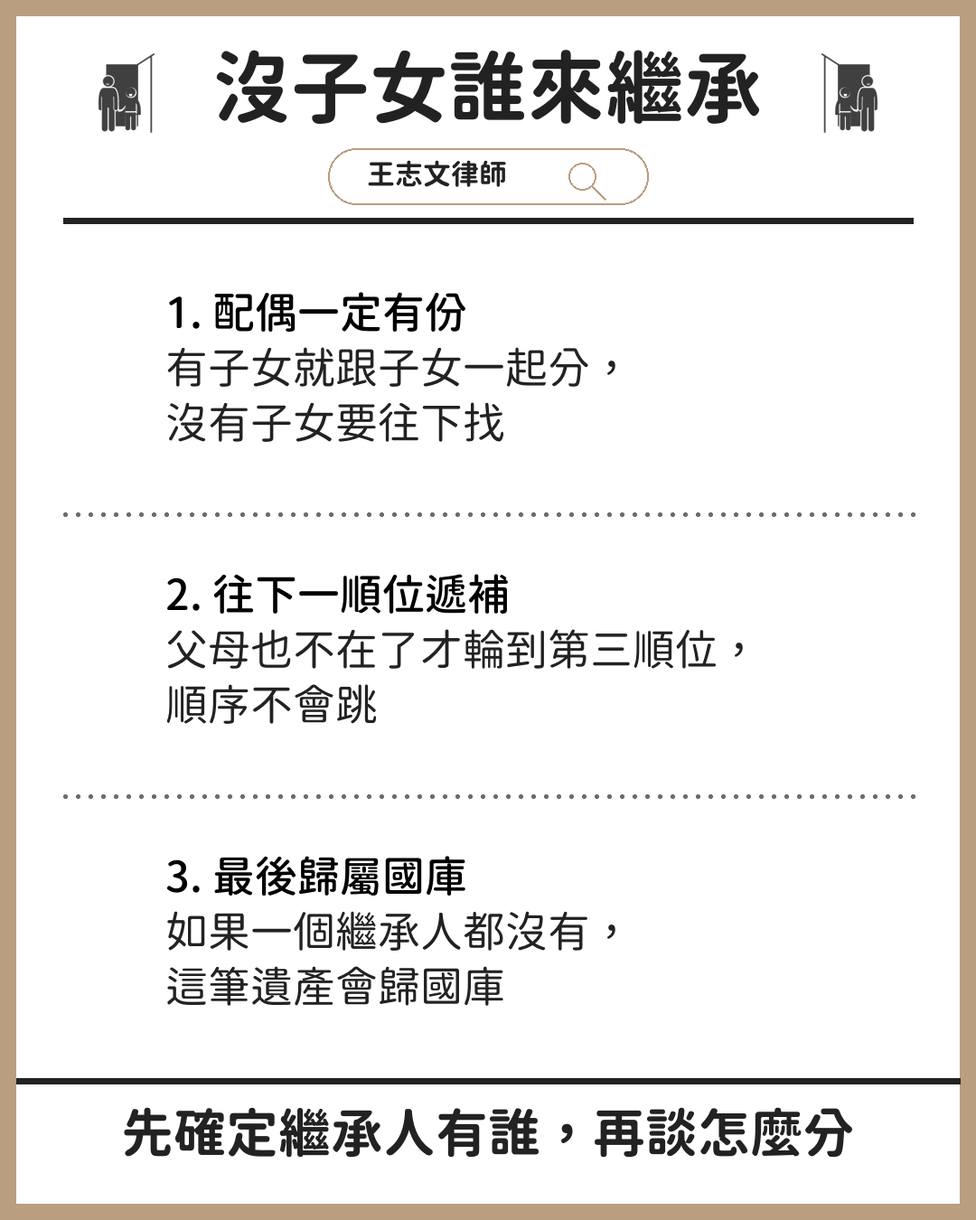
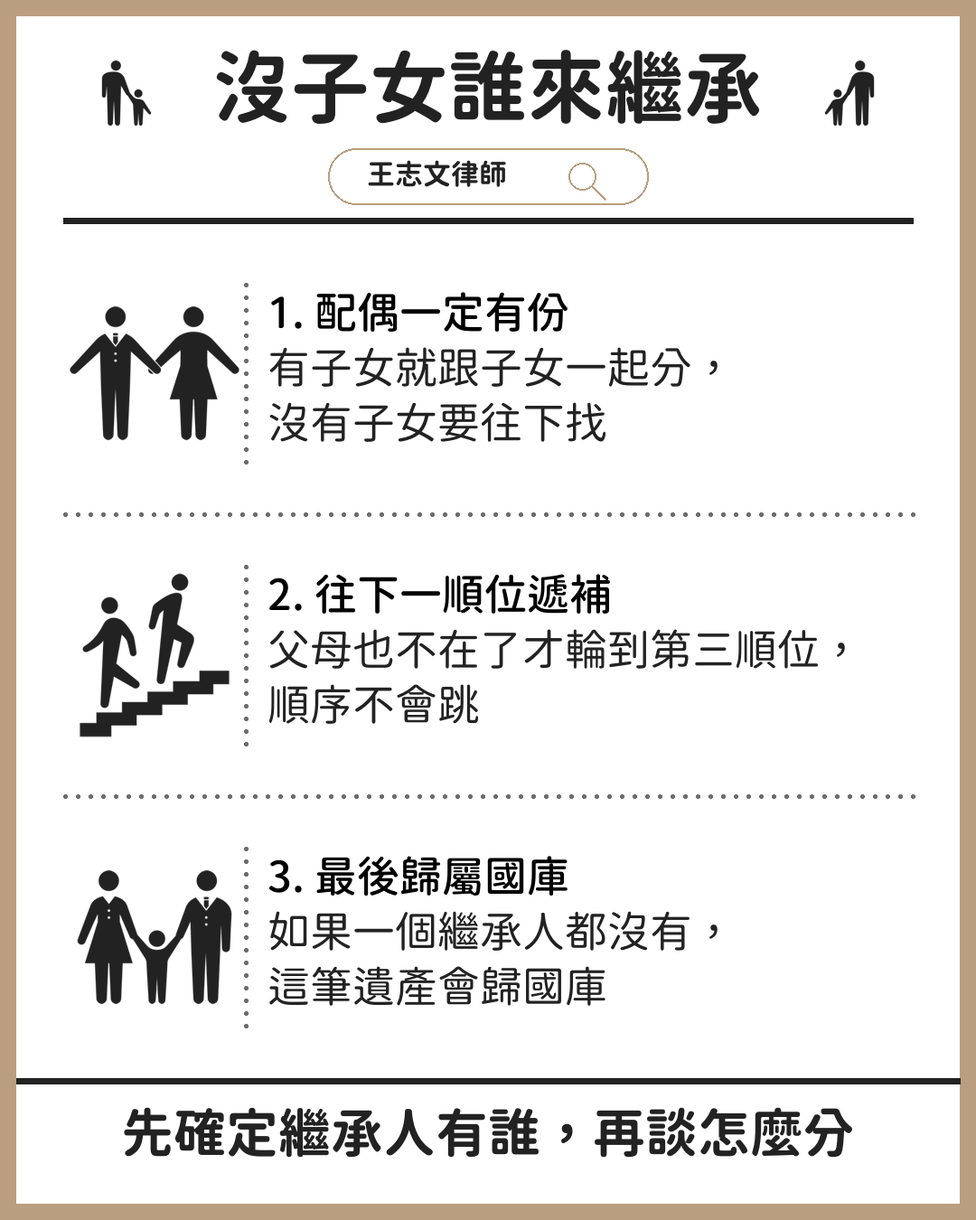
seo: 社群素材 2026-W36（6 則）

diff --git a/seo/2026-W36.html b/seo/2026-W36.html
@@ -40,96 +40,108 @@
 
   <article class="card">
     <div class="meta"><span class="num">1 / 6</span>
-      <span class="src">起訴書怎麼查？地檢署起訴書查詢只要2步驟！－王志文律</span>
-      <span class="len">149 字</span></div>
-    <img class="cardimg" src="img/%E8%B5%B7%E8%A8%B4%E6%9B%B8%E6%80%8E%E9%BA%BC%E6%9F%A5_%E5%9C%B0%E6%AA%A2%E7%BD%B2%E8%B5%B7%E8%A8%B4%E6%9B%B8%E6%9F%A5%E8%A9%A2%E5%8F%AA%E8%A6%812%E6%AD%A5%E9%A9%9F_%E7%8E%8B%E5%BF%97%E6%96%87%E5%BE%8B%E5%B8%AB_1.png" alt="圖卡" loading="lazy"><p class="imghint">長按上圖存到相簿，發文時一起附上（Threads 的預填連結不能帶圖）</p>
-    <div class="body">很多人在網路上搜「地檢署判決書查詢」，找了半天什麼都找不到。
+      <span class="src">輔助宣告、監護宣告聲請流程，圖解1次看懂！ - 王志</span>
+      <span class="len">351 字</span></div>
+    <img class="cardimg" src="img/%E8%BC%94%E5%8A%A9%E5%AE%A3%E5%91%8A_%E7%9B%A3%E8%AD%B7%E5%AE%A3%E5%91%8A%E8%81%B2%E8%AB%8B%E6%B5%81%E7%A8%8B_%E5%9C%96%E8%A7%A31%E6%AC%A1%E7%9C%8B%E6%87%82_%E7%8E%8B%E5%BF%97%E6%96%87%E5%BE%8B%E5%B8%AB_%E6%B0%91_1.png" alt="圖卡" loading="lazy"><p class="imghint">長按上圖存到相簿，發文時一起附上（Threads 的預填連結不能帶圖）</p>
+    <div class="body">同樣是家裡長輩失智，有人被裁定輔助宣告，有人被裁定監護宣告。差別不在家屬希望管到多緊，在當事人的心智受損到什麼程度。
 
-那是因為地檢署不會作判決。檢察官偵查完，作出來的是起訴、不起訴或緩起訴處分書；要等檢察官起訴、案件移到法院，才由法院判決認定被告有沒有罪。起訴是指控，判決是認定，兩件事查的地方不一樣。
+程度比較輕微的，法院會裁定輔助宣告，這個人在法律上是限制行為能力人，類似7至18歲，借錢、打官司這些事，要經過輔助人同意才有效。程度嚴重到沒辦法理解別人的意思，也沒辦法表達自己意見的，才是監護宣告，法律上類似未滿7歲，自己簽的契約全部無效。
 
-你收到傳票的那一刻，最想先弄清楚的是哪一件事？</div>
+常見的情況是長輩失智之後，家人發現他開始跟別人借錢，或是要把房地產過戶出去，才想到要聲請。但要走哪一種，是法院依鑑定結果認定的，不是家屬挑一個自己比較安心的。這類案子要經過醫生鑑定，當事人也可能提起抗告，每一件時間都不一樣，通常幾個月內會結束。
+
+真正難的往往不是選哪一種，是承認那個從小把你養大的人，現在連自己借了多少錢，都講不清楚了。</div>
     <div class="actions">
-      <a class="btn primary" href="https://www.threads.net/intent/post?text=%E5%BE%88%E5%A4%9A%E4%BA%BA%E5%9C%A8%E7%B6%B2%E8%B7%AF%E4%B8%8A%E6%90%9C%E3%80%8C%E5%9C%B0%E6%AA%A2%E7%BD%B2%E5%88%A4%E6%B1%BA%E6%9B%B8%E6%9F%A5%E8%A9%A2%E3%80%8D%EF%BC%8C%E6%89%BE%E4%BA%86%E5%8D%8A%E5%A4%A9%E4%BB%80%E9%BA%BC%E9%83%BD%E6%89%BE%E4%B8%8D%E5%88%B0%E3%80%82%0A%0A%E9%82%A3%E6%98%AF%E5%9B%A0%E7%82%BA%E5%9C%B0%E6%AA%A2%E7%BD%B2%E4%B8%8D%E6%9C%83%E4%BD%9C%E5%88%A4%E6%B1%BA%E3%80%82%E6%AA%A2%E5%AF%9F%E5%AE%98%E5%81%B5%E6%9F%A5%E5%AE%8C%EF%BC%8C%E4%BD%9C%E5%87%BA%E4%BE%86%E7%9A%84%E6%98%AF%E8%B5%B7%E8%A8%B4%E3%80%81%E4%B8%8D%E8%B5%B7%E8%A8%B4%E6%88%96%E7%B7%A9%E8%B5%B7%E8%A8%B4%E8%99%95%E5%88%86%E6%9B%B8%EF%BC%9B%E8%A6%81%E7%AD%89%E6%AA%A2%E5%AF%9F%E5%AE%98%E8%B5%B7%E8%A8%B4%E3%80%81%E6%A1%88%E4%BB%B6%E7%A7%BB%E5%88%B0%E6%B3%95%E9%99%A2%EF%BC%8C%E6%89%8D%E7%94%B1%E6%B3%95%E9%99%A2%E5%88%A4%E6%B1%BA%E8%AA%8D%E5%AE%9A%E8%A2%AB%E5%91%8A%E6%9C%89%E6%B2%92%E6%9C%89%E7%BD%AA%E3%80%82%E8%B5%B7%E8%A8%B4%E6%98%AF%E6%8C%87%E6%8E%A7%EF%BC%8C%E5%88%A4%E6%B1%BA%E6%98%AF%E8%AA%8D%E5%AE%9A%EF%BC%8C%E5%85%A9%E4%BB%B6%E4%BA%8B%E6%9F%A5%E7%9A%84%E5%9C%B0%E6%96%B9%E4%B8%8D%E4%B8%80%E6%A8%A3%E3%80%82%0A%0A%E4%BD%A0%E6%94%B6%E5%88%B0%E5%82%B3%E7%A5%A8%E7%9A%84%E9%82%A3%E4%B8%80%E5%88%BB%EF%BC%8C%E6%9C%80%E6%83%B3%E5%85%88%E5%BC%84%E6%B8%85%E6%A5%9A%E7%9A%84%E6%98%AF%E5%93%AA%E4%B8%80%E4%BB%B6%E4%BA%8B%EF%BC%9F" target="_blank" rel="noopener">發到 Threads</a>
+      <a class="btn primary" href="https://www.threads.net/intent/post?text=%E5%90%8C%E6%A8%A3%E6%98%AF%E5%AE%B6%E8%A3%A1%E9%95%B7%E8%BC%A9%E5%A4%B1%E6%99%BA%EF%BC%8C%E6%9C%89%E4%BA%BA%E8%A2%AB%E8%A3%81%E5%AE%9A%E8%BC%94%E5%8A%A9%E5%AE%A3%E5%91%8A%EF%BC%8C%E6%9C%89%E4%BA%BA%E8%A2%AB%E8%A3%81%E5%AE%9A%E7%9B%A3%E8%AD%B7%E5%AE%A3%E5%91%8A%E3%80%82%E5%B7%AE%E5%88%A5%E4%B8%8D%E5%9C%A8%E5%AE%B6%E5%B1%AC%E5%B8%8C%E6%9C%9B%E7%AE%A1%E5%88%B0%E5%A4%9A%E7%B7%8A%EF%BC%8C%E5%9C%A8%E7%95%B6%E4%BA%8B%E4%BA%BA%E7%9A%84%E5%BF%83%E6%99%BA%E5%8F%97%E6%90%8D%E5%88%B0%E4%BB%80%E9%BA%BC%E7%A8%8B%E5%BA%A6%E3%80%82%0A%0A%E7%A8%8B%E5%BA%A6%E6%AF%94%E8%BC%83%E8%BC%95%E5%BE%AE%E7%9A%84%EF%BC%8C%E6%B3%95%E9%99%A2%E6%9C%83%E8%A3%81%E5%AE%9A%E8%BC%94%E5%8A%A9%E5%AE%A3%E5%91%8A%EF%BC%8C%E9%80%99%E5%80%8B%E4%BA%BA%E5%9C%A8%E6%B3%95%E5%BE%8B%E4%B8%8A%E6%98%AF%E9%99%90%E5%88%B6%E8%A1%8C%E7%82%BA%E8%83%BD%E5%8A%9B%E4%BA%BA%EF%BC%8C%E9%A1%9E%E4%BC%BC7%E8%87%B318%E6%AD%B2%EF%BC%8C%E5%80%9F%E9%8C%A2%E3%80%81%E6%89%93%E5%AE%98%E5%8F%B8%E9%80%99%E4%BA%9B%E4%BA%8B%EF%BC%8C%E8%A6%81%E7%B6%93%E9%81%8E%E8%BC%94%E5%8A%A9%E4%BA%BA%E5%90%8C%E6%84%8F%E6%89%8D%E6%9C%89%E6%95%88%E3%80%82%E7%A8%8B%E5%BA%A6%E5%9A%B4%E9%87%8D%E5%88%B0%E6%B2%92%E8%BE%A6%E6%B3%95%E7%90%86%E8%A7%A3%E5%88%A5%E4%BA%BA%E7%9A%84%E6%84%8F%E6%80%9D%EF%BC%8C%E4%B9%9F%E6%B2%92%E8%BE%A6%E6%B3%95%E8%A1%A8%E9%81%94%E8%87%AA%E5%B7%B1%E6%84%8F%E8%A6%8B%E7%9A%84%EF%BC%8C%E6%89%8D%E6%98%AF%E7%9B%A3%E8%AD%B7%E5%AE%A3%E5%91%8A%EF%BC%8C%E6%B3%95%E5%BE%8B%E4%B8%8A%E9%A1%9E%E4%BC%BC%E6%9C%AA%E6%BB%BF7%E6%AD%B2%EF%BC%8C%E8%87%AA%E5%B7%B1%E7%B0%BD%E7%9A%84%E5%A5%91%E7%B4%84%E5%85%A8%E9%83%A8%E7%84%A1%E6%95%88%E3%80%82%0A%0A%E5%B8%B8%E8%A6%8B%E7%9A%84%E6%83%85%E6%B3%81%E6%98%AF%E9%95%B7%E8%BC%A9%E5%A4%B1%E6%99%BA%E4%B9%8B%E5%BE%8C%EF%BC%8C%E5%AE%B6%E4%BA%BA%E7%99%BC%E7%8F%BE%E4%BB%96%E9%96%8B%E5%A7%8B%E8%B7%9F%E5%88%A5%E4%BA%BA%E5%80%9F%E9%8C%A2%EF%BC%8C%E6%88%96%E6%98%AF%E8%A6%81%E6%8A%8A%E6%88%BF%E5%9C%B0%E7%94%A2%E9%81%8E%E6%88%B6%E5%87%BA%E5%8E%BB%EF%BC%8C%E6%89%8D%E6%83%B3%E5%88%B0%E8%A6%81%E8%81%B2%E8%AB%8B%E3%80%82%E4%BD%86%E8%A6%81%E8%B5%B0%E5%93%AA%E4%B8%80%E7%A8%AE%EF%BC%8C%E6%98%AF%E6%B3%95%E9%99%A2%E4%BE%9D%E9%91%91%E5%AE%9A%E7%B5%90%E6%9E%9C%E8%AA%8D%E5%AE%9A%E7%9A%84%EF%BC%8C%E4%B8%8D%E6%98%AF%E5%AE%B6%E5%B1%AC%E6%8C%91%E4%B8%80%E5%80%8B%E8%87%AA%E5%B7%B1%E6%AF%94%E8%BC%83%E5%AE%89%E5%BF%83%E7%9A%84%E3%80%82%E9%80%99%E9%A1%9E%E6%A1%88%E5%AD%90%E8%A6%81%E7%B6%93%E9%81%8E%E9%86%AB%E7%94%9F%E9%91%91%E5%AE%9A%EF%BC%8C%E7%95%B6%E4%BA%8B%E4%BA%BA%E4%B9%9F%E5%8F%AF%E8%83%BD%E6%8F%90%E8%B5%B7%E6%8A%97%E5%91%8A%EF%BC%8C%E6%AF%8F%E4%B8%80%E4%BB%B6%E6%99%82%E9%96%93%E9%83%BD%E4%B8%8D%E4%B8%80%E6%A8%A3%EF%BC%8C%E9%80%9A%E5%B8%B8%E5%B9%BE%E5%80%8B%E6%9C%88%E5%85%A7%E6%9C%83%E7%B5%90%E6%9D%9F%E3%80%82%0A%0A%E7%9C%9F%E6%AD%A3%E9%9B%A3%E7%9A%84%E5%BE%80%E5%BE%80%E4%B8%8D%E6%98%AF%E9%81%B8%E5%93%AA%E4%B8%80%E7%A8%AE%EF%BC%8C%E6%98%AF%E6%89%BF%E8%AA%8D%E9%82%A3%E5%80%8B%E5%BE%9E%E5%B0%8F%E6%8A%8A%E4%BD%A0%E9%A4%8A%E5%A4%A7%E7%9A%84%E4%BA%BA%EF%BC%8C%E7%8F%BE%E5%9C%A8%E9%80%A3%E8%87%AA%E5%B7%B1%E5%80%9F%E4%BA%86%E5%A4%9A%E5%B0%91%E9%8C%A2%EF%BC%8C%E9%83%BD%E8%AC%9B%E4%B8%8D%E6%B8%85%E6%A5%9A%E4%BA%86%E3%80%82" target="_blank" rel="noopener">發到 Threads</a>
       <button class="btn ghost" onclick="copyPost(this, 0)">複製文字</button>
     </div>
   </article>
   <article class="card">
     <div class="meta"><span class="num">2 / 6</span>
-      <span class="src">起訴書怎麼查？地檢署起訴書查詢只要2步驟！－王志文律</span>
-      <span class="len">178 字</span></div>
-    <img class="cardimg" src="img/%E8%B5%B7%E8%A8%B4%E6%9B%B8%E6%80%8E%E9%BA%BC%E6%9F%A5_%E5%9C%B0%E6%AA%A2%E7%BD%B2%E8%B5%B7%E8%A8%B4%E6%9B%B8%E6%9F%A5%E8%A9%A2%E5%8F%AA%E8%A6%812%E6%AD%A5%E9%A9%9F_%E7%8E%8B%E5%BF%97%E6%96%87%E5%BE%8B%E5%B8%AB_2.png" alt="圖卡" loading="lazy"><p class="imghint">長按上圖存到相簿，發文時一起附上（Threads 的預填連結不能帶圖）</p>
-    <div class="body">開完偵查庭之後就沒下文了，上網想查自己的起訴書，怎麼查都查不到。
+      <span class="src">輔助宣告、監護宣告聲請流程，圖解1次看懂！ - 王志</span>
+      <span class="len">378 字</span></div>
+    <img class="cardimg" src="img/%E8%BC%94%E5%8A%A9%E5%AE%A3%E5%91%8A_%E7%9B%A3%E8%AD%B7%E5%AE%A3%E5%91%8A%E8%81%B2%E8%AB%8B%E6%B5%81%E7%A8%8B_%E5%9C%96%E8%A7%A31%E6%AC%A1%E7%9C%8B%E6%87%82_%E7%8E%8B%E5%BF%97%E6%96%87%E5%BE%8B%E5%B8%AB_%E6%B0%91_2.png" alt="圖卡" loading="lazy"><p class="imghint">長按上圖存到相簿，發文時一起附上（Threads 的預填連結不能帶圖）</p>
+    <div class="body">監護人不一定要是家人。趁自己神智還清楚的時候，就可以先指定將來由誰來擔任，這叫意定監護。
 
-起訴書不是寫好就上網。原則上要等法院第一審裁判書公開之後，檢察署才會公開起訴書，所以案子還在審理中查不到，多半不是系統壞掉，是還沒輪到。另外涉及國家機密，或裁判書沒有公開的，也不會公開。查之前先把傳票上的案號找出來，那是查詢一定要填的東西。
+為什麼要先選？因為監護人的權限很大，受監護宣告之後，本人的行為包括處分財產，都要由監護人代為才有效。常見的情況是家人失智以後，其他親屬才臨時討論由誰擔任，那個時候本人已經沒辦法表達自己的意見了。萬一選到不適格又不盡責的人，財產可能被處理不當，損及的還是受監護人自己的權利。
 
-你是會自己查到底的人，還是直接打電話問的人？</div>
+人選的條件其實很寬，只要是成年人，而且自己沒有受監護、輔助或破產宣告就可以，不限於家人，信任多年的好友、律師、醫生這些專業人士都能擔任。但很多人卡在最後一步，契約簽好還要辦公證，由公證人做成公證書，這份意定監護契約才算成立，而且要等到本人真的受監護宣告的那一天，才發生效力。
+
+會提前簽意定監護的人，多半不是不信任家人。是他太清楚，等到自己說不出話的那一天，錢會讓最親近的人變成什麼樣子。</div>
     <div class="actions">
-      <a class="btn primary" href="https://www.threads.net/intent/post?text=%E9%96%8B%E5%AE%8C%E5%81%B5%E6%9F%A5%E5%BA%AD%E4%B9%8B%E5%BE%8C%E5%B0%B1%E6%B2%92%E4%B8%8B%E6%96%87%E4%BA%86%EF%BC%8C%E4%B8%8A%E7%B6%B2%E6%83%B3%E6%9F%A5%E8%87%AA%E5%B7%B1%E7%9A%84%E8%B5%B7%E8%A8%B4%E6%9B%B8%EF%BC%8C%E6%80%8E%E9%BA%BC%E6%9F%A5%E9%83%BD%E6%9F%A5%E4%B8%8D%E5%88%B0%E3%80%82%0A%0A%E8%B5%B7%E8%A8%B4%E6%9B%B8%E4%B8%8D%E6%98%AF%E5%AF%AB%E5%A5%BD%E5%B0%B1%E4%B8%8A%E7%B6%B2%E3%80%82%E5%8E%9F%E5%89%87%E4%B8%8A%E8%A6%81%E7%AD%89%E6%B3%95%E9%99%A2%E7%AC%AC%E4%B8%80%E5%AF%A9%E8%A3%81%E5%88%A4%E6%9B%B8%E5%85%AC%E9%96%8B%E4%B9%8B%E5%BE%8C%EF%BC%8C%E6%AA%A2%E5%AF%9F%E7%BD%B2%E6%89%8D%E6%9C%83%E5%85%AC%E9%96%8B%E8%B5%B7%E8%A8%B4%E6%9B%B8%EF%BC%8C%E6%89%80%E4%BB%A5%E6%A1%88%E5%AD%90%E9%82%84%E5%9C%A8%E5%AF%A9%E7%90%86%E4%B8%AD%E6%9F%A5%E4%B8%8D%E5%88%B0%EF%BC%8C%E5%A4%9A%E5%8D%8A%E4%B8%8D%E6%98%AF%E7%B3%BB%E7%B5%B1%E5%A3%9E%E6%8E%89%EF%BC%8C%E6%98%AF%E9%82%84%E6%B2%92%E8%BC%AA%E5%88%B0%E3%80%82%E5%8F%A6%E5%A4%96%E6%B6%89%E5%8F%8A%E5%9C%8B%E5%AE%B6%E6%A9%9F%E5%AF%86%EF%BC%8C%E6%88%96%E8%A3%81%E5%88%A4%E6%9B%B8%E6%B2%92%E6%9C%89%E5%85%AC%E9%96%8B%E7%9A%84%EF%BC%8C%E4%B9%9F%E4%B8%8D%E6%9C%83%E5%85%AC%E9%96%8B%E3%80%82%E6%9F%A5%E4%B9%8B%E5%89%8D%E5%85%88%E6%8A%8A%E5%82%B3%E7%A5%A8%E4%B8%8A%E7%9A%84%E6%A1%88%E8%99%9F%E6%89%BE%E5%87%BA%E4%BE%86%EF%BC%8C%E9%82%A3%E6%98%AF%E6%9F%A5%E8%A9%A2%E4%B8%80%E5%AE%9A%E8%A6%81%E5%A1%AB%E7%9A%84%E6%9D%B1%E8%A5%BF%E3%80%82%0A%0A%E4%BD%A0%E6%98%AF%E6%9C%83%E8%87%AA%E5%B7%B1%E6%9F%A5%E5%88%B0%E5%BA%95%E7%9A%84%E4%BA%BA%EF%BC%8C%E9%82%84%E6%98%AF%E7%9B%B4%E6%8E%A5%E6%89%93%E9%9B%BB%E8%A9%B1%E5%95%8F%E7%9A%84%E4%BA%BA%EF%BC%9F" target="_blank" rel="noopener">發到 Threads</a>
+      <a class="btn primary" href="https://www.threads.net/intent/post?text=%E7%9B%A3%E8%AD%B7%E4%BA%BA%E4%B8%8D%E4%B8%80%E5%AE%9A%E8%A6%81%E6%98%AF%E5%AE%B6%E4%BA%BA%E3%80%82%E8%B6%81%E8%87%AA%E5%B7%B1%E7%A5%9E%E6%99%BA%E9%82%84%E6%B8%85%E6%A5%9A%E7%9A%84%E6%99%82%E5%80%99%EF%BC%8C%E5%B0%B1%E5%8F%AF%E4%BB%A5%E5%85%88%E6%8C%87%E5%AE%9A%E5%B0%87%E4%BE%86%E7%94%B1%E8%AA%B0%E4%BE%86%E6%93%94%E4%BB%BB%EF%BC%8C%E9%80%99%E5%8F%AB%E6%84%8F%E5%AE%9A%E7%9B%A3%E8%AD%B7%E3%80%82%0A%0A%E7%82%BA%E4%BB%80%E9%BA%BC%E8%A6%81%E5%85%88%E9%81%B8%EF%BC%9F%E5%9B%A0%E7%82%BA%E7%9B%A3%E8%AD%B7%E4%BA%BA%E7%9A%84%E6%AC%8A%E9%99%90%E5%BE%88%E5%A4%A7%EF%BC%8C%E5%8F%97%E7%9B%A3%E8%AD%B7%E5%AE%A3%E5%91%8A%E4%B9%8B%E5%BE%8C%EF%BC%8C%E6%9C%AC%E4%BA%BA%E7%9A%84%E8%A1%8C%E7%82%BA%E5%8C%85%E6%8B%AC%E8%99%95%E5%88%86%E8%B2%A1%E7%94%A2%EF%BC%8C%E9%83%BD%E8%A6%81%E7%94%B1%E7%9B%A3%E8%AD%B7%E4%BA%BA%E4%BB%A3%E7%82%BA%E6%89%8D%E6%9C%89%E6%95%88%E3%80%82%E5%B8%B8%E8%A6%8B%E7%9A%84%E6%83%85%E6%B3%81%E6%98%AF%E5%AE%B6%E4%BA%BA%E5%A4%B1%E6%99%BA%E4%BB%A5%E5%BE%8C%EF%BC%8C%E5%85%B6%E4%BB%96%E8%A6%AA%E5%B1%AC%E6%89%8D%E8%87%A8%E6%99%82%E8%A8%8E%E8%AB%96%E7%94%B1%E8%AA%B0%E6%93%94%E4%BB%BB%EF%BC%8C%E9%82%A3%E5%80%8B%E6%99%82%E5%80%99%E6%9C%AC%E4%BA%BA%E5%B7%B2%E7%B6%93%E6%B2%92%E8%BE%A6%E6%B3%95%E8%A1%A8%E9%81%94%E8%87%AA%E5%B7%B1%E7%9A%84%E6%84%8F%E8%A6%8B%E4%BA%86%E3%80%82%E8%90%AC%E4%B8%80%E9%81%B8%E5%88%B0%E4%B8%8D%E9%81%A9%E6%A0%BC%E5%8F%88%E4%B8%8D%E7%9B%A1%E8%B2%AC%E7%9A%84%E4%BA%BA%EF%BC%8C%E8%B2%A1%E7%94%A2%E5%8F%AF%E8%83%BD%E8%A2%AB%E8%99%95%E7%90%86%E4%B8%8D%E7%95%B6%EF%BC%8C%E6%90%8D%E5%8F%8A%E7%9A%84%E9%82%84%E6%98%AF%E5%8F%97%E7%9B%A3%E8%AD%B7%E4%BA%BA%E8%87%AA%E5%B7%B1%E7%9A%84%E6%AC%8A%E5%88%A9%E3%80%82%0A%0A%E4%BA%BA%E9%81%B8%E7%9A%84%E6%A2%9D%E4%BB%B6%E5%85%B6%E5%AF%A6%E5%BE%88%E5%AF%AC%EF%BC%8C%E5%8F%AA%E8%A6%81%E6%98%AF%E6%88%90%E5%B9%B4%E4%BA%BA%EF%BC%8C%E8%80%8C%E4%B8%94%E8%87%AA%E5%B7%B1%E6%B2%92%E6%9C%89%E5%8F%97%E7%9B%A3%E8%AD%B7%E3%80%81%E8%BC%94%E5%8A%A9%E6%88%96%E7%A0%B4%E7%94%A2%E5%AE%A3%E5%91%8A%E5%B0%B1%E5%8F%AF%E4%BB%A5%EF%BC%8C%E4%B8%8D%E9%99%90%E6%96%BC%E5%AE%B6%E4%BA%BA%EF%BC%8C%E4%BF%A1%E4%BB%BB%E5%A4%9A%E5%B9%B4%E7%9A%84%E5%A5%BD%E5%8F%8B%E3%80%81%E5%BE%8B%E5%B8%AB%E3%80%81%E9%86%AB%E7%94%9F%E9%80%99%E4%BA%9B%E5%B0%88%E6%A5%AD%E4%BA%BA%E5%A3%AB%E9%83%BD%E8%83%BD%E6%93%94%E4%BB%BB%E3%80%82%E4%BD%86%E5%BE%88%E5%A4%9A%E4%BA%BA%E5%8D%A1%E5%9C%A8%E6%9C%80%E5%BE%8C%E4%B8%80%E6%AD%A5%EF%BC%8C%E5%A5%91%E7%B4%84%E7%B0%BD%E5%A5%BD%E9%82%84%E8%A6%81%E8%BE%A6%E5%85%AC%E8%AD%89%EF%BC%8C%E7%94%B1%E5%85%AC%E8%AD%89%E4%BA%BA%E5%81%9A%E6%88%90%E5%85%AC%E8%AD%89%E6%9B%B8%EF%BC%8C%E9%80%99%E4%BB%BD%E6%84%8F%E5%AE%9A%E7%9B%A3%E8%AD%B7%E5%A5%91%E7%B4%84%E6%89%8D%E7%AE%97%E6%88%90%E7%AB%8B%EF%BC%8C%E8%80%8C%E4%B8%94%E8%A6%81%E7%AD%89%E5%88%B0%E6%9C%AC%E4%BA%BA%E7%9C%9F%E7%9A%84%E5%8F%97%E7%9B%A3%E8%AD%B7%E5%AE%A3%E5%91%8A%E7%9A%84%E9%82%A3%E4%B8%80%E5%A4%A9%EF%BC%8C%E6%89%8D%E7%99%BC%E7%94%9F%E6%95%88%E5%8A%9B%E3%80%82%0A%0A%E6%9C%83%E6%8F%90%E5%89%8D%E7%B0%BD%E6%84%8F%E5%AE%9A%E7%9B%A3%E8%AD%B7%E7%9A%84%E4%BA%BA%EF%BC%8C%E5%A4%9A%E5%8D%8A%E4%B8%8D%E6%98%AF%E4%B8%8D%E4%BF%A1%E4%BB%BB%E5%AE%B6%E4%BA%BA%E3%80%82%E6%98%AF%E4%BB%96%E5%A4%AA%E6%B8%85%E6%A5%9A%EF%BC%8C%E7%AD%89%E5%88%B0%E8%87%AA%E5%B7%B1%E8%AA%AA%E4%B8%8D%E5%87%BA%E8%A9%B1%E7%9A%84%E9%82%A3%E4%B8%80%E5%A4%A9%EF%BC%8C%E9%8C%A2%E6%9C%83%E8%AE%93%E6%9C%80%E8%A6%AA%E8%BF%91%E7%9A%84%E4%BA%BA%E8%AE%8A%E6%88%90%E4%BB%80%E9%BA%BC%E6%A8%A3%E5%AD%90%E3%80%82" target="_blank" rel="noopener">發到 Threads</a>
       <button class="btn ghost" onclick="copyPost(this, 1)">複製文字</button>
     </div>
   </article>
   <article class="card">
     <div class="meta"><span class="num">3 / 6</span>
-      <span class="src">起訴書怎麼查？地檢署起訴書查詢只要2步驟！－王志文律</span>
-      <span class="len">145 字</span></div>
-    <img class="cardimg" src="img/%E8%B5%B7%E8%A8%B4%E6%9B%B8%E6%80%8E%E9%BA%BC%E6%9F%A5_%E5%9C%B0%E6%AA%A2%E7%BD%B2%E8%B5%B7%E8%A8%B4%E6%9B%B8%E6%9F%A5%E8%A9%A2%E5%8F%AA%E8%A6%812%E6%AD%A5%E9%A9%9F_%E7%8E%8B%E5%BF%97%E6%96%87%E5%BE%8B%E5%B8%AB_3.png" alt="圖卡" loading="lazy"><p class="imghint">長按上圖存到相簿，發文時一起附上（Threads 的預填連結不能帶圖）</p>
-    <div class="body">紙本起訴書不見了還有得查，開完偵查庭卻遲遲沒消息的，才是最難熬的。
+      <span class="src">輔助宣告、監護宣告聲請流程，圖解1次看懂！ - 王志</span>
+      <span class="len">349 字</span></div>
+    <img class="cardimg" src="img/%E8%BC%94%E5%8A%A9%E5%AE%A3%E5%91%8A_%E7%9B%A3%E8%AD%B7%E5%AE%A3%E5%91%8A%E8%81%B2%E8%AB%8B%E6%B5%81%E7%A8%8B_%E5%9C%96%E8%A7%A31%E6%AC%A1%E7%9C%8B%E6%87%82_%E7%8E%8B%E5%BF%97%E6%96%87%E5%BE%8B%E5%B8%AB_%E6%B0%91_3.png" alt="圖卡" loading="lazy"><p class="imghint">長按上圖存到相簿，發文時一起附上（Threads 的預填連結不能帶圖）</p>
+    <div class="body">受監護宣告之後，本人走進銀行想領自己的錢，領不出來。帳戶會交由監護人管理，要領錢，得由監護人代為。
 
-因為偵查不公開，不起訴和緩起訴處分書並沒有公開查詢系統，想知道檢察官的偵查結果，只能等處分書寄來。時間差得很大，有的案子從開庭到收到只花3星期，也有從提出告訴狀到收到已經超過1年半。
+常見的情況是家人患有失智症，其他家屬怕他誤入詐騙陷阱，財產被騙走，甚至把房地產過戶給別人，才考慮聲請監護宣告。監護宣告最大的好處，就是監護人依法可以監督、管理受監護人的財產，避免因為受騙而輕易交付給別人，或是做出對自己不利益的處分。
 
-等消息的那段時間，你都是怎麼過的？</div>
+代價是生活裡的大小事跟著一起被關起來。受監護宣告的人成為無行為能力人，法律上類似未滿7歲，買東西、借錢，只要是本人單獨去做的，法律上都是無效。連繼承也一樣，繼承權本身不受影響，但要協議分割遺產，或是走分割遺產的訴訟，都要由監護人代為處理。
+
+所以家屬最常卡住的，不是要不要聲請，是那個人明明還會自己走去菜市場買菜，回家卻已經分不清楚剛剛在電話裡跟他要錢的是誰。</div>
     <div class="actions">
-      <a class="btn primary" href="https://www.threads.net/intent/post?text=%E7%B4%99%E6%9C%AC%E8%B5%B7%E8%A8%B4%E6%9B%B8%E4%B8%8D%E8%A6%8B%E4%BA%86%E9%82%84%E6%9C%89%E5%BE%97%E6%9F%A5%EF%BC%8C%E9%96%8B%E5%AE%8C%E5%81%B5%E6%9F%A5%E5%BA%AD%E5%8D%BB%E9%81%B2%E9%81%B2%E6%B2%92%E6%B6%88%E6%81%AF%E7%9A%84%EF%BC%8C%E6%89%8D%E6%98%AF%E6%9C%80%E9%9B%A3%E7%86%AC%E7%9A%84%E3%80%82%0A%0A%E5%9B%A0%E7%82%BA%E5%81%B5%E6%9F%A5%E4%B8%8D%E5%85%AC%E9%96%8B%EF%BC%8C%E4%B8%8D%E8%B5%B7%E8%A8%B4%E5%92%8C%E7%B7%A9%E8%B5%B7%E8%A8%B4%E8%99%95%E5%88%86%E6%9B%B8%E4%B8%A6%E6%B2%92%E6%9C%89%E5%85%AC%E9%96%8B%E6%9F%A5%E8%A9%A2%E7%B3%BB%E7%B5%B1%EF%BC%8C%E6%83%B3%E7%9F%A5%E9%81%93%E6%AA%A2%E5%AF%9F%E5%AE%98%E7%9A%84%E5%81%B5%E6%9F%A5%E7%B5%90%E6%9E%9C%EF%BC%8C%E5%8F%AA%E8%83%BD%E7%AD%89%E8%99%95%E5%88%86%E6%9B%B8%E5%AF%84%E4%BE%86%E3%80%82%E6%99%82%E9%96%93%E5%B7%AE%E5%BE%97%E5%BE%88%E5%A4%A7%EF%BC%8C%E6%9C%89%E7%9A%84%E6%A1%88%E5%AD%90%E5%BE%9E%E9%96%8B%E5%BA%AD%E5%88%B0%E6%94%B6%E5%88%B0%E5%8F%AA%E8%8A%B13%E6%98%9F%E6%9C%9F%EF%BC%8C%E4%B9%9F%E6%9C%89%E5%BE%9E%E6%8F%90%E5%87%BA%E5%91%8A%E8%A8%B4%E7%8B%80%E5%88%B0%E6%94%B6%E5%88%B0%E5%B7%B2%E7%B6%93%E8%B6%85%E9%81%8E1%E5%B9%B4%E5%8D%8A%E3%80%82%0A%0A%E7%AD%89%E6%B6%88%E6%81%AF%E7%9A%84%E9%82%A3%E6%AE%B5%E6%99%82%E9%96%93%EF%BC%8C%E4%BD%A0%E9%83%BD%E6%98%AF%E6%80%8E%E9%BA%BC%E9%81%8E%E7%9A%84%EF%BC%9F" target="_blank" rel="noopener">發到 Threads</a>
+      <a class="btn primary" href="https://www.threads.net/intent/post?text=%E5%8F%97%E7%9B%A3%E8%AD%B7%E5%AE%A3%E5%91%8A%E4%B9%8B%E5%BE%8C%EF%BC%8C%E6%9C%AC%E4%BA%BA%E8%B5%B0%E9%80%B2%E9%8A%80%E8%A1%8C%E6%83%B3%E9%A0%98%E8%87%AA%E5%B7%B1%E7%9A%84%E9%8C%A2%EF%BC%8C%E9%A0%98%E4%B8%8D%E5%87%BA%E4%BE%86%E3%80%82%E5%B8%B3%E6%88%B6%E6%9C%83%E4%BA%A4%E7%94%B1%E7%9B%A3%E8%AD%B7%E4%BA%BA%E7%AE%A1%E7%90%86%EF%BC%8C%E8%A6%81%E9%A0%98%E9%8C%A2%EF%BC%8C%E5%BE%97%E7%94%B1%E7%9B%A3%E8%AD%B7%E4%BA%BA%E4%BB%A3%E7%82%BA%E3%80%82%0A%0A%E5%B8%B8%E8%A6%8B%E7%9A%84%E6%83%85%E6%B3%81%E6%98%AF%E5%AE%B6%E4%BA%BA%E6%82%A3%E6%9C%89%E5%A4%B1%E6%99%BA%E7%97%87%EF%BC%8C%E5%85%B6%E4%BB%96%E5%AE%B6%E5%B1%AC%E6%80%95%E4%BB%96%E8%AA%A4%E5%85%A5%E8%A9%90%E9%A8%99%E9%99%B7%E9%98%B1%EF%BC%8C%E8%B2%A1%E7%94%A2%E8%A2%AB%E9%A8%99%E8%B5%B0%EF%BC%8C%E7%94%9A%E8%87%B3%E6%8A%8A%E6%88%BF%E5%9C%B0%E7%94%A2%E9%81%8E%E6%88%B6%E7%B5%A6%E5%88%A5%E4%BA%BA%EF%BC%8C%E6%89%8D%E8%80%83%E6%85%AE%E8%81%B2%E8%AB%8B%E7%9B%A3%E8%AD%B7%E5%AE%A3%E5%91%8A%E3%80%82%E7%9B%A3%E8%AD%B7%E5%AE%A3%E5%91%8A%E6%9C%80%E5%A4%A7%E7%9A%84%E5%A5%BD%E8%99%95%EF%BC%8C%E5%B0%B1%E6%98%AF%E7%9B%A3%E8%AD%B7%E4%BA%BA%E4%BE%9D%E6%B3%95%E5%8F%AF%E4%BB%A5%E7%9B%A3%E7%9D%A3%E3%80%81%E7%AE%A1%E7%90%86%E5%8F%97%E7%9B%A3%E8%AD%B7%E4%BA%BA%E7%9A%84%E8%B2%A1%E7%94%A2%EF%BC%8C%E9%81%BF%E5%85%8D%E5%9B%A0%E7%82%BA%E5%8F%97%E9%A8%99%E8%80%8C%E8%BC%95%E6%98%93%E4%BA%A4%E4%BB%98%E7%B5%A6%E5%88%A5%E4%BA%BA%EF%BC%8C%E6%88%96%E6%98%AF%E5%81%9A%E5%87%BA%E5%B0%8D%E8%87%AA%E5%B7%B1%E4%B8%8D%E5%88%A9%E7%9B%8A%E7%9A%84%E8%99%95%E5%88%86%E3%80%82%0A%0A%E4%BB%A3%E5%83%B9%E6%98%AF%E7%94%9F%E6%B4%BB%E8%A3%A1%E7%9A%84%E5%A4%A7%E5%B0%8F%E4%BA%8B%E8%B7%9F%E8%91%97%E4%B8%80%E8%B5%B7%E8%A2%AB%E9%97%9C%E8%B5%B7%E4%BE%86%E3%80%82%E5%8F%97%E7%9B%A3%E8%AD%B7%E5%AE%A3%E5%91%8A%E7%9A%84%E4%BA%BA%E6%88%90%E7%82%BA%E7%84%A1%E8%A1%8C%E7%82%BA%E8%83%BD%E5%8A%9B%E4%BA%BA%EF%BC%8C%E6%B3%95%E5%BE%8B%E4%B8%8A%E9%A1%9E%E4%BC%BC%E6%9C%AA%E6%BB%BF7%E6%AD%B2%EF%BC%8C%E8%B2%B7%E6%9D%B1%E8%A5%BF%E3%80%81%E5%80%9F%E9%8C%A2%EF%BC%8C%E5%8F%AA%E8%A6%81%E6%98%AF%E6%9C%AC%E4%BA%BA%E5%96%AE%E7%8D%A8%E5%8E%BB%E5%81%9A%E7%9A%84%EF%BC%8C%E6%B3%95%E5%BE%8B%E4%B8%8A%E9%83%BD%E6%98%AF%E7%84%A1%E6%95%88%E3%80%82%E9%80%A3%E7%B9%BC%E6%89%BF%E4%B9%9F%E4%B8%80%E6%A8%A3%EF%BC%8C%E7%B9%BC%E6%89%BF%E6%AC%8A%E6%9C%AC%E8%BA%AB%E4%B8%8D%E5%8F%97%E5%BD%B1%E9%9F%BF%EF%BC%8C%E4%BD%86%E8%A6%81%E5%8D%94%E8%AD%B0%E5%88%86%E5%89%B2%E9%81%BA%E7%94%A2%EF%BC%8C%E6%88%96%E6%98%AF%E8%B5%B0%E5%88%86%E5%89%B2%E9%81%BA%E7%94%A2%E7%9A%84%E8%A8%B4%E8%A8%9F%EF%BC%8C%E9%83%BD%E8%A6%81%E7%94%B1%E7%9B%A3%E8%AD%B7%E4%BA%BA%E4%BB%A3%E7%82%BA%E8%99%95%E7%90%86%E3%80%82%0A%0A%E6%89%80%E4%BB%A5%E5%AE%B6%E5%B1%AC%E6%9C%80%E5%B8%B8%E5%8D%A1%E4%BD%8F%E7%9A%84%EF%BC%8C%E4%B8%8D%E6%98%AF%E8%A6%81%E4%B8%8D%E8%A6%81%E8%81%B2%E8%AB%8B%EF%BC%8C%E6%98%AF%E9%82%A3%E5%80%8B%E4%BA%BA%E6%98%8E%E6%98%8E%E9%82%84%E6%9C%83%E8%87%AA%E5%B7%B1%E8%B5%B0%E5%8E%BB%E8%8F%9C%E5%B8%82%E5%A0%B4%E8%B2%B7%E8%8F%9C%EF%BC%8C%E5%9B%9E%E5%AE%B6%E5%8D%BB%E5%B7%B2%E7%B6%93%E5%88%86%E4%B8%8D%E6%B8%85%E6%A5%9A%E5%89%9B%E5%89%9B%E5%9C%A8%E9%9B%BB%E8%A9%B1%E8%A3%A1%E8%B7%9F%E4%BB%96%E8%A6%81%E9%8C%A2%E7%9A%84%E6%98%AF%E8%AA%B0%E3%80%82" target="_blank" rel="noopener">發到 Threads</a>
       <button class="btn ghost" onclick="copyPost(this, 2)">複製文字</button>
     </div>
   </article>
   <article class="card">
     <div class="meta"><span class="num">4 / 6</span>
-      <span class="src">判決書查詢｜2026最新3步驟查判決結果＋個人案底查</span>
-      <span class="len">169 字</span></div>
-    <img class="cardimg" src="img/%E5%88%A4%E6%B1%BA%E6%9B%B8%E6%9F%A5%E8%A9%A2_2026%E6%9C%80%E6%96%B03%E6%AD%A5%E9%A9%9F%E6%9F%A5%E5%88%A4%E6%B1%BA%E7%B5%90%E6%9E%9C_%E5%80%8B%E4%BA%BA%E6%A1%88%E5%BA%95%E6%9F%A5%E8%A9%A2_1.png" alt="圖卡" loading="lazy"><p class="imghint">長按上圖存到相簿，發文時一起附上（Threads 的預填連結不能帶圖）</p>
-    <div class="body">宣判當天下午，當事人打電話問書記官判決主文，響了很久都沒人接。他以為自己被躲了。
+      <span class="src">遺產繼承順位及比例怎麼看？民法繼承順位圖1看秒懂！</span>
+      <span class="len">361 字</span></div>
+    <img class="cardimg" src="img/%E9%81%BA%E7%94%A2%E7%B9%BC%E6%89%BF%E9%A0%86%E4%BD%8D%E5%8F%8A%E6%AF%94%E4%BE%8B%E6%80%8E%E9%BA%BC%E7%9C%8B_%E6%B0%91%E6%B3%95%E7%B9%BC%E6%89%BF%E9%A0%86%E4%BD%8D%E5%9C%961%E7%9C%8B%E7%A7%92%E6%87%82__1.png" alt="圖卡" loading="lazy"><p class="imghint">長按上圖存到相簿，發文時一起附上（Threads 的預填連結不能帶圖）</p>
+    <div class="body">沒有小孩的人過世，配偶不會自動一個人拿走全部遺產。這件事很多人是到了真的要辦繼承時才知道。
 
-不是。法院定上午宣判，書記官可能整個上午都在開庭，根本不在座位上，要下午再打打看。股別和分機就印在開庭通知書上。書記官講的也只是大略勝敗，詳細金額還是要看系統。主文公告查詢系統通常也要下午或隔天才更新。
+依民法第1138條，配偶是當然繼承人。但當然繼承人的意思是配偶一定有份，不是配偶獨得。沒有子女的時候，配偶要跟第二順位的繼承人一起按比例繼承；如果父母也已經過世，就再往下，配偶跟第三順位的人一起分。順位是一層一層遞補的，不會因為有配偶就停在第一層。
 
-等判決的那天，你會一直重整網頁，還是直接打電話？</div>
+反過來，如果有子女，遺產就由子女繼承。未婚又沒有子女的人，才輪到第二順位；父母也不在了，換第三順位，以此類推。所以同樣一句沒有小孩，在不同家庭裡的答案完全不一樣，關鍵是上面還有誰在。
+
+真正會吵起來的，多半從房子開始。家裡有好幾棟不動產的時候，誰拿哪一棟、能不能指定給配偶，往往在繼承人是誰都還沒確定之前就先吵開了。而最少人想過的一種結局是，如果最後無人繼承，遺產會歸屬國庫。</div>
     <div class="actions">
-      <a class="btn primary" href="https://www.threads.net/intent/post?text=%E5%AE%A3%E5%88%A4%E7%95%B6%E5%A4%A9%E4%B8%8B%E5%8D%88%EF%BC%8C%E7%95%B6%E4%BA%8B%E4%BA%BA%E6%89%93%E9%9B%BB%E8%A9%B1%E5%95%8F%E6%9B%B8%E8%A8%98%E5%AE%98%E5%88%A4%E6%B1%BA%E4%B8%BB%E6%96%87%EF%BC%8C%E9%9F%BF%E4%BA%86%E5%BE%88%E4%B9%85%E9%83%BD%E6%B2%92%E4%BA%BA%E6%8E%A5%E3%80%82%E4%BB%96%E4%BB%A5%E7%82%BA%E8%87%AA%E5%B7%B1%E8%A2%AB%E8%BA%B2%E4%BA%86%E3%80%82%0A%0A%E4%B8%8D%E6%98%AF%E3%80%82%E6%B3%95%E9%99%A2%E5%AE%9A%E4%B8%8A%E5%8D%88%E5%AE%A3%E5%88%A4%EF%BC%8C%E6%9B%B8%E8%A8%98%E5%AE%98%E5%8F%AF%E8%83%BD%E6%95%B4%E5%80%8B%E4%B8%8A%E5%8D%88%E9%83%BD%E5%9C%A8%E9%96%8B%E5%BA%AD%EF%BC%8C%E6%A0%B9%E6%9C%AC%E4%B8%8D%E5%9C%A8%E5%BA%A7%E4%BD%8D%E4%B8%8A%EF%BC%8C%E8%A6%81%E4%B8%8B%E5%8D%88%E5%86%8D%E6%89%93%E6%89%93%E7%9C%8B%E3%80%82%E8%82%A1%E5%88%A5%E5%92%8C%E5%88%86%E6%A9%9F%E5%B0%B1%E5%8D%B0%E5%9C%A8%E9%96%8B%E5%BA%AD%E9%80%9A%E7%9F%A5%E6%9B%B8%E4%B8%8A%E3%80%82%E6%9B%B8%E8%A8%98%E5%AE%98%E8%AC%9B%E7%9A%84%E4%B9%9F%E5%8F%AA%E6%98%AF%E5%A4%A7%E7%95%A5%E5%8B%9D%E6%95%97%EF%BC%8C%E8%A9%B3%E7%B4%B0%E9%87%91%E9%A1%8D%E9%82%84%E6%98%AF%E8%A6%81%E7%9C%8B%E7%B3%BB%E7%B5%B1%E3%80%82%E4%B8%BB%E6%96%87%E5%85%AC%E5%91%8A%E6%9F%A5%E8%A9%A2%E7%B3%BB%E7%B5%B1%E9%80%9A%E5%B8%B8%E4%B9%9F%E8%A6%81%E4%B8%8B%E5%8D%88%E6%88%96%E9%9A%94%E5%A4%A9%E6%89%8D%E6%9B%B4%E6%96%B0%E3%80%82%0A%0A%E7%AD%89%E5%88%A4%E6%B1%BA%E7%9A%84%E9%82%A3%E5%A4%A9%EF%BC%8C%E4%BD%A0%E6%9C%83%E4%B8%80%E7%9B%B4%E9%87%8D%E6%95%B4%E7%B6%B2%E9%A0%81%EF%BC%8C%E9%82%84%E6%98%AF%E7%9B%B4%E6%8E%A5%E6%89%93%E9%9B%BB%E8%A9%B1%EF%BC%9F" target="_blank" rel="noopener">發到 Threads</a>
+      <a class="btn primary" href="https://www.threads.net/intent/post?text=%E6%B2%92%E6%9C%89%E5%B0%8F%E5%AD%A9%E7%9A%84%E4%BA%BA%E9%81%8E%E4%B8%96%EF%BC%8C%E9%85%8D%E5%81%B6%E4%B8%8D%E6%9C%83%E8%87%AA%E5%8B%95%E4%B8%80%E5%80%8B%E4%BA%BA%E6%8B%BF%E8%B5%B0%E5%85%A8%E9%83%A8%E9%81%BA%E7%94%A2%E3%80%82%E9%80%99%E4%BB%B6%E4%BA%8B%E5%BE%88%E5%A4%9A%E4%BA%BA%E6%98%AF%E5%88%B0%E4%BA%86%E7%9C%9F%E7%9A%84%E8%A6%81%E8%BE%A6%E7%B9%BC%E6%89%BF%E6%99%82%E6%89%8D%E7%9F%A5%E9%81%93%E3%80%82%0A%0A%E4%BE%9D%E6%B0%91%E6%B3%95%E7%AC%AC1138%E6%A2%9D%EF%BC%8C%E9%85%8D%E5%81%B6%E6%98%AF%E7%95%B6%E7%84%B6%E7%B9%BC%E6%89%BF%E4%BA%BA%E3%80%82%E4%BD%86%E7%95%B6%E7%84%B6%E7%B9%BC%E6%89%BF%E4%BA%BA%E7%9A%84%E6%84%8F%E6%80%9D%E6%98%AF%E9%85%8D%E5%81%B6%E4%B8%80%E5%AE%9A%E6%9C%89%E4%BB%BD%EF%BC%8C%E4%B8%8D%E6%98%AF%E9%85%8D%E5%81%B6%E7%8D%A8%E5%BE%97%E3%80%82%E6%B2%92%E6%9C%89%E5%AD%90%E5%A5%B3%E7%9A%84%E6%99%82%E5%80%99%EF%BC%8C%E9%85%8D%E5%81%B6%E8%A6%81%E8%B7%9F%E7%AC%AC%E4%BA%8C%E9%A0%86%E4%BD%8D%E7%9A%84%E7%B9%BC%E6%89%BF%E4%BA%BA%E4%B8%80%E8%B5%B7%E6%8C%89%E6%AF%94%E4%BE%8B%E7%B9%BC%E6%89%BF%EF%BC%9B%E5%A6%82%E6%9E%9C%E7%88%B6%E6%AF%8D%E4%B9%9F%E5%B7%B2%E7%B6%93%E9%81%8E%E4%B8%96%EF%BC%8C%E5%B0%B1%E5%86%8D%E5%BE%80%E4%B8%8B%EF%BC%8C%E9%85%8D%E5%81%B6%E8%B7%9F%E7%AC%AC%E4%B8%89%E9%A0%86%E4%BD%8D%E7%9A%84%E4%BA%BA%E4%B8%80%E8%B5%B7%E5%88%86%E3%80%82%E9%A0%86%E4%BD%8D%E6%98%AF%E4%B8%80%E5%B1%A4%E4%B8%80%E5%B1%A4%E9%81%9E%E8%A3%9C%E7%9A%84%EF%BC%8C%E4%B8%8D%E6%9C%83%E5%9B%A0%E7%82%BA%E6%9C%89%E9%85%8D%E5%81%B6%E5%B0%B1%E5%81%9C%E5%9C%A8%E7%AC%AC%E4%B8%80%E5%B1%A4%E3%80%82%0A%0A%E5%8F%8D%E9%81%8E%E4%BE%86%EF%BC%8C%E5%A6%82%E6%9E%9C%E6%9C%89%E5%AD%90%E5%A5%B3%EF%BC%8C%E9%81%BA%E7%94%A2%E5%B0%B1%E7%94%B1%E5%AD%90%E5%A5%B3%E7%B9%BC%E6%89%BF%E3%80%82%E6%9C%AA%E5%A9%9A%E5%8F%88%E6%B2%92%E6%9C%89%E5%AD%90%E5%A5%B3%E7%9A%84%E4%BA%BA%EF%BC%8C%E6%89%8D%E8%BC%AA%E5%88%B0%E7%AC%AC%E4%BA%8C%E9%A0%86%E4%BD%8D%EF%BC%9B%E7%88%B6%E6%AF%8D%E4%B9%9F%E4%B8%8D%E5%9C%A8%E4%BA%86%EF%BC%8C%E6%8F%9B%E7%AC%AC%E4%B8%89%E9%A0%86%E4%BD%8D%EF%BC%8C%E4%BB%A5%E6%AD%A4%E9%A1%9E%E6%8E%A8%E3%80%82%E6%89%80%E4%BB%A5%E5%90%8C%E6%A8%A3%E4%B8%80%E5%8F%A5%E6%B2%92%E6%9C%89%E5%B0%8F%E5%AD%A9%EF%BC%8C%E5%9C%A8%E4%B8%8D%E5%90%8C%E5%AE%B6%E5%BA%AD%E8%A3%A1%E7%9A%84%E7%AD%94%E6%A1%88%E5%AE%8C%E5%85%A8%E4%B8%8D%E4%B8%80%E6%A8%A3%EF%BC%8C%E9%97%9C%E9%8D%B5%E6%98%AF%E4%B8%8A%E9%9D%A2%E9%82%84%E6%9C%89%E8%AA%B0%E5%9C%A8%E3%80%82%0A%0A%E7%9C%9F%E6%AD%A3%E6%9C%83%E5%90%B5%E8%B5%B7%E4%BE%86%E7%9A%84%EF%BC%8C%E5%A4%9A%E5%8D%8A%E5%BE%9E%E6%88%BF%E5%AD%90%E9%96%8B%E5%A7%8B%E3%80%82%E5%AE%B6%E8%A3%A1%E6%9C%89%E5%A5%BD%E5%B9%BE%E6%A3%9F%E4%B8%8D%E5%8B%95%E7%94%A2%E7%9A%84%E6%99%82%E5%80%99%EF%BC%8C%E8%AA%B0%E6%8B%BF%E5%93%AA%E4%B8%80%E6%A3%9F%E3%80%81%E8%83%BD%E4%B8%8D%E8%83%BD%E6%8C%87%E5%AE%9A%E7%B5%A6%E9%85%8D%E5%81%B6%EF%BC%8C%E5%BE%80%E5%BE%80%E5%9C%A8%E7%B9%BC%E6%89%BF%E4%BA%BA%E6%98%AF%E8%AA%B0%E9%83%BD%E9%82%84%E6%B2%92%E7%A2%BA%E5%AE%9A%E4%B9%8B%E5%89%8D%E5%B0%B1%E5%85%88%E5%90%B5%E9%96%8B%E4%BA%86%E3%80%82%E8%80%8C%E6%9C%80%E5%B0%91%E4%BA%BA%E6%83%B3%E9%81%8E%E7%9A%84%E4%B8%80%E7%A8%AE%E7%B5%90%E5%B1%80%E6%98%AF%EF%BC%8C%E5%A6%82%E6%9E%9C%E6%9C%80%E5%BE%8C%E7%84%A1%E4%BA%BA%E7%B9%BC%E6%89%BF%EF%BC%8C%E9%81%BA%E7%94%A2%E6%9C%83%E6%AD%B8%E5%B1%AC%E5%9C%8B%E5%BA%AB%E3%80%82" target="_blank" rel="noopener">發到 Threads</a>
       <button class="btn ghost" onclick="copyPost(this, 3)">複製文字</button>
     </div>
   </article>
   <article class="card">
     <div class="meta"><span class="num">5 / 6</span>
-      <span class="src">判決書查詢｜2026最新3步驟查判決結果＋個人案底查</span>
-      <span class="len">169 字</span></div>
-    <img class="cardimg" src="img/%E5%88%A4%E6%B1%BA%E6%9B%B8%E6%9F%A5%E8%A9%A2_2026%E6%9C%80%E6%96%B03%E6%AD%A5%E9%A9%9F%E6%9F%A5%E5%88%A4%E6%B1%BA%E7%B5%90%E6%9E%9C_%E5%80%8B%E4%BA%BA%E6%A1%88%E5%BA%95%E6%9F%A5%E8%A9%A2_2.png" alt="圖卡" loading="lazy"><p class="imghint">長按上圖存到相簿，發文時一起附上（Threads 的預填連結不能帶圖）</p>
-    <div class="body">有人拿著一個名字來問我，說在裁判書系統查到刑事判決，這個人是不是有前科。
+      <span class="src">遺產繼承順位及比例怎麼看？民法繼承順位圖1看秒懂！</span>
+      <span class="len">363 字</span></div>
+    <img class="cardimg" src="img/%E9%81%BA%E7%94%A2%E7%B9%BC%E6%89%BF%E9%A0%86%E4%BD%8D%E5%8F%8A%E6%AF%94%E4%BE%8B%E6%80%8E%E9%BA%BC%E7%9C%8B_%E6%B0%91%E6%B3%95%E7%B9%BC%E6%89%BF%E9%A0%86%E4%BD%8D%E5%9C%961%E7%9C%8B%E7%A7%92%E6%87%82__2.png" alt="圖卡" loading="lazy"><p class="imghint">長按上圖存到相簿，發文時一起附上（Threads 的預填連結不能帶圖）</p>
+    <div class="body">遺囑寫得再清楚，也不代表你可以把遺產全部留給其中一個人。很多人以為只要遺囑寫下去，家裡的東西就照著自己的意思走。
 
-不一定。公開的判決書只會有當事人姓名，不會有身分證字號和住址，所以也沒辦法用身分證字號去反查一個人過去的案件。同名同姓的情形本來就可能存在。而且查得到刑事判決，不代表有罪判決已經確定，還要看有沒有走到最終審級。
+民法第1187條的原文是這樣寫的：遺囑人於不違反關於特留分規定之範圍內，得以遺囑自由處分遺產。很多人只看見自由處分四個字，重點其實在前面那一句。自由是有條件的，條件就是不能違反特留分。
 
-如果要確認一個人的背景，你會查到什麼程度才停手？</div>
+換句話說，法律先幫每個繼承人留下一塊不能被遺囑拿走的部分，剩下的才是立遺囑的人可以自己安排的。應繼分是本來可以分到多少，特留分是最低限度保得住多少，兩個數字不一樣，卻常常被混在一起講。以600萬元的遺產去算，差別馬上就看得出來。
+
+家裡有好幾棟房子的時候最容易出事。想把其中一棟留給配偶，是很自然的念頭，但這個念頭能不能成立，不是看感情，是看它有沒有壓到別人的特留分。真正讓遺囑失效的，通常不是寫得不夠清楚，是分得太乾脆。</div>
     <div class="actions">
-      <a class="btn primary" href="https://www.threads.net/intent/post?text=%E6%9C%89%E4%BA%BA%E6%8B%BF%E8%91%97%E4%B8%80%E5%80%8B%E5%90%8D%E5%AD%97%E4%BE%86%E5%95%8F%E6%88%91%EF%BC%8C%E8%AA%AA%E5%9C%A8%E8%A3%81%E5%88%A4%E6%9B%B8%E7%B3%BB%E7%B5%B1%E6%9F%A5%E5%88%B0%E5%88%91%E4%BA%8B%E5%88%A4%E6%B1%BA%EF%BC%8C%E9%80%99%E5%80%8B%E4%BA%BA%E6%98%AF%E4%B8%8D%E6%98%AF%E6%9C%89%E5%89%8D%E7%A7%91%E3%80%82%0A%0A%E4%B8%8D%E4%B8%80%E5%AE%9A%E3%80%82%E5%85%AC%E9%96%8B%E7%9A%84%E5%88%A4%E6%B1%BA%E6%9B%B8%E5%8F%AA%E6%9C%83%E6%9C%89%E7%95%B6%E4%BA%8B%E4%BA%BA%E5%A7%93%E5%90%8D%EF%BC%8C%E4%B8%8D%E6%9C%83%E6%9C%89%E8%BA%AB%E5%88%86%E8%AD%89%E5%AD%97%E8%99%9F%E5%92%8C%E4%BD%8F%E5%9D%80%EF%BC%8C%E6%89%80%E4%BB%A5%E4%B9%9F%E6%B2%92%E8%BE%A6%E6%B3%95%E7%94%A8%E8%BA%AB%E5%88%86%E8%AD%89%E5%AD%97%E8%99%9F%E5%8E%BB%E5%8F%8D%E6%9F%A5%E4%B8%80%E5%80%8B%E4%BA%BA%E9%81%8E%E5%8E%BB%E7%9A%84%E6%A1%88%E4%BB%B6%E3%80%82%E5%90%8C%E5%90%8D%E5%90%8C%E5%A7%93%E7%9A%84%E6%83%85%E5%BD%A2%E6%9C%AC%E4%BE%86%E5%B0%B1%E5%8F%AF%E8%83%BD%E5%AD%98%E5%9C%A8%E3%80%82%E8%80%8C%E4%B8%94%E6%9F%A5%E5%BE%97%E5%88%B0%E5%88%91%E4%BA%8B%E5%88%A4%E6%B1%BA%EF%BC%8C%E4%B8%8D%E4%BB%A3%E8%A1%A8%E6%9C%89%E7%BD%AA%E5%88%A4%E6%B1%BA%E5%B7%B2%E7%B6%93%E7%A2%BA%E5%AE%9A%EF%BC%8C%E9%82%84%E8%A6%81%E7%9C%8B%E6%9C%89%E6%B2%92%E6%9C%89%E8%B5%B0%E5%88%B0%E6%9C%80%E7%B5%82%E5%AF%A9%E7%B4%9A%E3%80%82%0A%0A%E5%A6%82%E6%9E%9C%E8%A6%81%E7%A2%BA%E8%AA%8D%E4%B8%80%E5%80%8B%E4%BA%BA%E7%9A%84%E8%83%8C%E6%99%AF%EF%BC%8C%E4%BD%A0%E6%9C%83%E6%9F%A5%E5%88%B0%E4%BB%80%E9%BA%BC%E7%A8%8B%E5%BA%A6%E6%89%8D%E5%81%9C%E6%89%8B%EF%BC%9F" target="_blank" rel="noopener">發到 Threads</a>
+      <a class="btn primary" href="https://www.threads.net/intent/post?text=%E9%81%BA%E5%9B%91%E5%AF%AB%E5%BE%97%E5%86%8D%E6%B8%85%E6%A5%9A%EF%BC%8C%E4%B9%9F%E4%B8%8D%E4%BB%A3%E8%A1%A8%E4%BD%A0%E5%8F%AF%E4%BB%A5%E6%8A%8A%E9%81%BA%E7%94%A2%E5%85%A8%E9%83%A8%E7%95%99%E7%B5%A6%E5%85%B6%E4%B8%AD%E4%B8%80%E5%80%8B%E4%BA%BA%E3%80%82%E5%BE%88%E5%A4%9A%E4%BA%BA%E4%BB%A5%E7%82%BA%E5%8F%AA%E8%A6%81%E9%81%BA%E5%9B%91%E5%AF%AB%E4%B8%8B%E5%8E%BB%EF%BC%8C%E5%AE%B6%E8%A3%A1%E7%9A%84%E6%9D%B1%E8%A5%BF%E5%B0%B1%E7%85%A7%E8%91%97%E8%87%AA%E5%B7%B1%E7%9A%84%E6%84%8F%E6%80%9D%E8%B5%B0%E3%80%82%0A%0A%E6%B0%91%E6%B3%95%E7%AC%AC1187%E6%A2%9D%E7%9A%84%E5%8E%9F%E6%96%87%E6%98%AF%E9%80%99%E6%A8%A3%E5%AF%AB%E7%9A%84%EF%BC%9A%E9%81%BA%E5%9B%91%E4%BA%BA%E6%96%BC%E4%B8%8D%E9%81%95%E5%8F%8D%E9%97%9C%E6%96%BC%E7%89%B9%E7%95%99%E5%88%86%E8%A6%8F%E5%AE%9A%E4%B9%8B%E7%AF%84%E5%9C%8D%E5%85%A7%EF%BC%8C%E5%BE%97%E4%BB%A5%E9%81%BA%E5%9B%91%E8%87%AA%E7%94%B1%E8%99%95%E5%88%86%E9%81%BA%E7%94%A2%E3%80%82%E5%BE%88%E5%A4%9A%E4%BA%BA%E5%8F%AA%E7%9C%8B%E8%A6%8B%E8%87%AA%E7%94%B1%E8%99%95%E5%88%86%E5%9B%9B%E5%80%8B%E5%AD%97%EF%BC%8C%E9%87%8D%E9%BB%9E%E5%85%B6%E5%AF%A6%E5%9C%A8%E5%89%8D%E9%9D%A2%E9%82%A3%E4%B8%80%E5%8F%A5%E3%80%82%E8%87%AA%E7%94%B1%E6%98%AF%E6%9C%89%E6%A2%9D%E4%BB%B6%E7%9A%84%EF%BC%8C%E6%A2%9D%E4%BB%B6%E5%B0%B1%E6%98%AF%E4%B8%8D%E8%83%BD%E9%81%95%E5%8F%8D%E7%89%B9%E7%95%99%E5%88%86%E3%80%82%0A%0A%E6%8F%9B%E5%8F%A5%E8%A9%B1%E8%AA%AA%EF%BC%8C%E6%B3%95%E5%BE%8B%E5%85%88%E5%B9%AB%E6%AF%8F%E5%80%8B%E7%B9%BC%E6%89%BF%E4%BA%BA%E7%95%99%E4%B8%8B%E4%B8%80%E5%A1%8A%E4%B8%8D%E8%83%BD%E8%A2%AB%E9%81%BA%E5%9B%91%E6%8B%BF%E8%B5%B0%E7%9A%84%E9%83%A8%E5%88%86%EF%BC%8C%E5%89%A9%E4%B8%8B%E7%9A%84%E6%89%8D%E6%98%AF%E7%AB%8B%E9%81%BA%E5%9B%91%E7%9A%84%E4%BA%BA%E5%8F%AF%E4%BB%A5%E8%87%AA%E5%B7%B1%E5%AE%89%E6%8E%92%E7%9A%84%E3%80%82%E6%87%89%E7%B9%BC%E5%88%86%E6%98%AF%E6%9C%AC%E4%BE%86%E5%8F%AF%E4%BB%A5%E5%88%86%E5%88%B0%E5%A4%9A%E5%B0%91%EF%BC%8C%E7%89%B9%E7%95%99%E5%88%86%E6%98%AF%E6%9C%80%E4%BD%8E%E9%99%90%E5%BA%A6%E4%BF%9D%E5%BE%97%E4%BD%8F%E5%A4%9A%E5%B0%91%EF%BC%8C%E5%85%A9%E5%80%8B%E6%95%B8%E5%AD%97%E4%B8%8D%E4%B8%80%E6%A8%A3%EF%BC%8C%E5%8D%BB%E5%B8%B8%E5%B8%B8%E8%A2%AB%E6%B7%B7%E5%9C%A8%E4%B8%80%E8%B5%B7%E8%AC%9B%E3%80%82%E4%BB%A5600%E8%90%AC%E5%85%83%E7%9A%84%E9%81%BA%E7%94%A2%E5%8E%BB%E7%AE%97%EF%BC%8C%E5%B7%AE%E5%88%A5%E9%A6%AC%E4%B8%8A%E5%B0%B1%E7%9C%8B%E5%BE%97%E5%87%BA%E4%BE%86%E3%80%82%0A%0A%E5%AE%B6%E8%A3%A1%E6%9C%89%E5%A5%BD%E5%B9%BE%E6%A3%9F%E6%88%BF%E5%AD%90%E7%9A%84%E6%99%82%E5%80%99%E6%9C%80%E5%AE%B9%E6%98%93%E5%87%BA%E4%BA%8B%E3%80%82%E6%83%B3%E6%8A%8A%E5%85%B6%E4%B8%AD%E4%B8%80%E6%A3%9F%E7%95%99%E7%B5%A6%E9%85%8D%E5%81%B6%EF%BC%8C%E6%98%AF%E5%BE%88%E8%87%AA%E7%84%B6%E7%9A%84%E5%BF%B5%E9%A0%AD%EF%BC%8C%E4%BD%86%E9%80%99%E5%80%8B%E5%BF%B5%E9%A0%AD%E8%83%BD%E4%B8%8D%E8%83%BD%E6%88%90%E7%AB%8B%EF%BC%8C%E4%B8%8D%E6%98%AF%E7%9C%8B%E6%84%9F%E6%83%85%EF%BC%8C%E6%98%AF%E7%9C%8B%E5%AE%83%E6%9C%89%E6%B2%92%E6%9C%89%E5%A3%93%E5%88%B0%E5%88%A5%E4%BA%BA%E7%9A%84%E7%89%B9%E7%95%99%E5%88%86%E3%80%82%E7%9C%9F%E6%AD%A3%E8%AE%93%E9%81%BA%E5%9B%91%E5%A4%B1%E6%95%88%E7%9A%84%EF%BC%8C%E9%80%9A%E5%B8%B8%E4%B8%8D%E6%98%AF%E5%AF%AB%E5%BE%97%E4%B8%8D%E5%A4%A0%E6%B8%85%E6%A5%9A%EF%BC%8C%E6%98%AF%E5%88%86%E5%BE%97%E5%A4%AA%E4%B9%BE%E8%84%86%E3%80%82" target="_blank" rel="noopener">發到 Threads</a>
       <button class="btn ghost" onclick="copyPost(this, 4)">複製文字</button>
     </div>
   </article>
   <article class="card">
     <div class="meta"><span class="num">6 / 6</span>
-      <span class="src">判決書查詢｜2026最新3步驟查判決結果＋個人案底查</span>
-      <span class="len">166 字</span></div>
-    <img class="cardimg" src="img/%E5%88%A4%E6%B1%BA%E6%9B%B8%E6%9F%A5%E8%A9%A2_2026%E6%9C%80%E6%96%B03%E6%AD%A5%E9%A9%9F%E6%9F%A5%E5%88%A4%E6%B1%BA%E7%B5%90%E6%9E%9C_%E5%80%8B%E4%BA%BA%E6%A1%88%E5%BA%95%E6%9F%A5%E8%A9%A2_3.png" alt="圖卡" loading="lazy"><p class="imghint">長按上圖存到相簿，發文時一起附上（Threads 的預填連結不能帶圖）</p>
-    <div class="body">當事人傳訊息給我，說案子明明已經宣判了，裁判書系統卻怎麼查都查不到。他問是不是系統壞了。
+      <span class="src">遺產繼承順位及比例怎麼看？民法繼承順位圖1看秒懂！</span>
+      <span class="len">361 字</span></div>
+    <img class="cardimg" src="img/%E9%81%BA%E7%94%A2%E7%B9%BC%E6%89%BF%E9%A0%86%E4%BD%8D%E5%8F%8A%E6%AF%94%E4%BE%8B%E6%80%8E%E9%BA%BC%E7%9C%8B_%E6%B0%91%E6%B3%95%E7%B9%BC%E6%89%BF%E9%A0%86%E4%BD%8D%E5%9C%961%E7%9C%8B%E7%A7%92%E6%87%82__3.png" alt="圖卡" loading="lazy"><p class="imghint">長按上圖存到相簿，發文時一起附上（Threads 的預填連結不能帶圖）</p>
+    <div class="body">發現遺囑把自己那一份幾乎砍光，不是只能認了。法律其實留了一條路，只是那條路有時效。
 
-系統沒壞。判決書通常要到宣判日10至14天後，才在裁判書系統查得到。案號裡有簡字或小字的案件，還要先點簡易案件查詢，直接搜是搜不出來的。少年保護事件、妨害性自主案件的裁判書，則是法律規定就不會公開。
+被侵害特留分的繼承人，可以類推適用民法第1225條，向其他有領得遺產的繼承人行使扣減權。也就是說，要處理的對象不是寫遺囑的那個人，而是實際領到遺產的那些人。這件事在家裡通常特別難開口，因為坐在對面的，是同一個家裡的人。而且很多人是在遺產都已經分完之後，才知道自己那一份被少算了。
 
-你查自己案子的時候，卡最久的是哪一關？</div>
+但真正會出事的不是難不難開口，是時間。這一點沒有人會提醒你。扣減權有期間限制，類推適用民法第1146條第2項，要在知悉被侵害的2年內行使。就算完全不知道遺囑的內容會侵害到自己的特留分，也要在繼承開始，也就是被繼承人死亡時起10年內行使。
+
+很多人的打算是先讓長輩的事情過去，等家裡氣氛好一點再談。等到終於談得下去的那一天，時間常常已經先站到對面那一邊了。</div>
     <div class="actions">
-      <a class="btn primary" href="https://www.threads.net/intent/post?text=%E7%95%B6%E4%BA%8B%E4%BA%BA%E5%82%B3%E8%A8%8A%E6%81%AF%E7%B5%A6%E6%88%91%EF%BC%8C%E8%AA%AA%E6%A1%88%E5%AD%90%E6%98%8E%E6%98%8E%E5%B7%B2%E7%B6%93%E5%AE%A3%E5%88%A4%E4%BA%86%EF%BC%8C%E8%A3%81%E5%88%A4%E6%9B%B8%E7%B3%BB%E7%B5%B1%E5%8D%BB%E6%80%8E%E9%BA%BC%E6%9F%A5%E9%83%BD%E6%9F%A5%E4%B8%8D%E5%88%B0%E3%80%82%E4%BB%96%E5%95%8F%E6%98%AF%E4%B8%8D%E6%98%AF%E7%B3%BB%E7%B5%B1%E5%A3%9E%E4%BA%86%E3%80%82%0A%0A%E7%B3%BB%E7%B5%B1%E6%B2%92%E5%A3%9E%E3%80%82%E5%88%A4%E6%B1%BA%E6%9B%B8%E9%80%9A%E5%B8%B8%E8%A6%81%E5%88%B0%E5%AE%A3%E5%88%A4%E6%97%A510%E8%87%B314%E5%A4%A9%E5%BE%8C%EF%BC%8C%E6%89%8D%E5%9C%A8%E8%A3%81%E5%88%A4%E6%9B%B8%E7%B3%BB%E7%B5%B1%E6%9F%A5%E5%BE%97%E5%88%B0%E3%80%82%E6%A1%88%E8%99%9F%E8%A3%A1%E6%9C%89%E7%B0%A1%E5%AD%97%E6%88%96%E5%B0%8F%E5%AD%97%E7%9A%84%E6%A1%88%E4%BB%B6%EF%BC%8C%E9%82%84%E8%A6%81%E5%85%88%E9%BB%9E%E7%B0%A1%E6%98%93%E6%A1%88%E4%BB%B6%E6%9F%A5%E8%A9%A2%EF%BC%8C%E7%9B%B4%E6%8E%A5%E6%90%9C%E6%98%AF%E6%90%9C%E4%B8%8D%E5%87%BA%E4%BE%86%E7%9A%84%E3%80%82%E5%B0%91%E5%B9%B4%E4%BF%9D%E8%AD%B7%E4%BA%8B%E4%BB%B6%E3%80%81%E5%A6%A8%E5%AE%B3%E6%80%A7%E8%87%AA%E4%B8%BB%E6%A1%88%E4%BB%B6%E7%9A%84%E8%A3%81%E5%88%A4%E6%9B%B8%EF%BC%8C%E5%89%87%E6%98%AF%E6%B3%95%E5%BE%8B%E8%A6%8F%E5%AE%9A%E5%B0%B1%E4%B8%8D%E6%9C%83%E5%85%AC%E9%96%8B%E3%80%82%0A%0A%E4%BD%A0%E6%9F%A5%E8%87%AA%E5%B7%B1%E6%A1%88%E5%AD%90%E7%9A%84%E6%99%82%E5%80%99%EF%BC%8C%E5%8D%A1%E6%9C%80%E4%B9%85%E7%9A%84%E6%98%AF%E5%93%AA%E4%B8%80%E9%97%9C%EF%BC%9F" target="_blank" rel="noopener">發到 Threads</a>
+      <a class="btn primary" href="https://www.threads.net/intent/post?text=%E7%99%BC%E7%8F%BE%E9%81%BA%E5%9B%91%E6%8A%8A%E8%87%AA%E5%B7%B1%E9%82%A3%E4%B8%80%E4%BB%BD%E5%B9%BE%E4%B9%8E%E7%A0%8D%E5%85%89%EF%BC%8C%E4%B8%8D%E6%98%AF%E5%8F%AA%E8%83%BD%E8%AA%8D%E4%BA%86%E3%80%82%E6%B3%95%E5%BE%8B%E5%85%B6%E5%AF%A6%E7%95%99%E4%BA%86%E4%B8%80%E6%A2%9D%E8%B7%AF%EF%BC%8C%E5%8F%AA%E6%98%AF%E9%82%A3%E6%A2%9D%E8%B7%AF%E6%9C%89%E6%99%82%E6%95%88%E3%80%82%0A%0A%E8%A2%AB%E4%BE%B5%E5%AE%B3%E7%89%B9%E7%95%99%E5%88%86%E7%9A%84%E7%B9%BC%E6%89%BF%E4%BA%BA%EF%BC%8C%E5%8F%AF%E4%BB%A5%E9%A1%9E%E6%8E%A8%E9%81%A9%E7%94%A8%E6%B0%91%E6%B3%95%E7%AC%AC1225%E6%A2%9D%EF%BC%8C%E5%90%91%E5%85%B6%E4%BB%96%E6%9C%89%E9%A0%98%E5%BE%97%E9%81%BA%E7%94%A2%E7%9A%84%E7%B9%BC%E6%89%BF%E4%BA%BA%E8%A1%8C%E4%BD%BF%E6%89%A3%E6%B8%9B%E6%AC%8A%E3%80%82%E4%B9%9F%E5%B0%B1%E6%98%AF%E8%AA%AA%EF%BC%8C%E8%A6%81%E8%99%95%E7%90%86%E7%9A%84%E5%B0%8D%E8%B1%A1%E4%B8%8D%E6%98%AF%E5%AF%AB%E9%81%BA%E5%9B%91%E7%9A%84%E9%82%A3%E5%80%8B%E4%BA%BA%EF%BC%8C%E8%80%8C%E6%98%AF%E5%AF%A6%E9%9A%9B%E9%A0%98%E5%88%B0%E9%81%BA%E7%94%A2%E7%9A%84%E9%82%A3%E4%BA%9B%E4%BA%BA%E3%80%82%E9%80%99%E4%BB%B6%E4%BA%8B%E5%9C%A8%E5%AE%B6%E8%A3%A1%E9%80%9A%E5%B8%B8%E7%89%B9%E5%88%A5%E9%9B%A3%E9%96%8B%E5%8F%A3%EF%BC%8C%E5%9B%A0%E7%82%BA%E5%9D%90%E5%9C%A8%E5%B0%8D%E9%9D%A2%E7%9A%84%EF%BC%8C%E6%98%AF%E5%90%8C%E4%B8%80%E5%80%8B%E5%AE%B6%E8%A3%A1%E7%9A%84%E4%BA%BA%E3%80%82%E8%80%8C%E4%B8%94%E5%BE%88%E5%A4%9A%E4%BA%BA%E6%98%AF%E5%9C%A8%E9%81%BA%E7%94%A2%E9%83%BD%E5%B7%B2%E7%B6%93%E5%88%86%E5%AE%8C%E4%B9%8B%E5%BE%8C%EF%BC%8C%E6%89%8D%E7%9F%A5%E9%81%93%E8%87%AA%E5%B7%B1%E9%82%A3%E4%B8%80%E4%BB%BD%E8%A2%AB%E5%B0%91%E7%AE%97%E4%BA%86%E3%80%82%0A%0A%E4%BD%86%E7%9C%9F%E6%AD%A3%E6%9C%83%E5%87%BA%E4%BA%8B%E7%9A%84%E4%B8%8D%E6%98%AF%E9%9B%A3%E4%B8%8D%E9%9B%A3%E9%96%8B%E5%8F%A3%EF%BC%8C%E6%98%AF%E6%99%82%E9%96%93%E3%80%82%E9%80%99%E4%B8%80%E9%BB%9E%E6%B2%92%E6%9C%89%E4%BA%BA%E6%9C%83%E6%8F%90%E9%86%92%E4%BD%A0%E3%80%82%E6%89%A3%E6%B8%9B%E6%AC%8A%E6%9C%89%E6%9C%9F%E9%96%93%E9%99%90%E5%88%B6%EF%BC%8C%E9%A1%9E%E6%8E%A8%E9%81%A9%E7%94%A8%E6%B0%91%E6%B3%95%E7%AC%AC1146%E6%A2%9D%E7%AC%AC2%E9%A0%85%EF%BC%8C%E8%A6%81%E5%9C%A8%E7%9F%A5%E6%82%89%E8%A2%AB%E4%BE%B5%E5%AE%B3%E7%9A%842%E5%B9%B4%E5%85%A7%E8%A1%8C%E4%BD%BF%E3%80%82%E5%B0%B1%E7%AE%97%E5%AE%8C%E5%85%A8%E4%B8%8D%E7%9F%A5%E9%81%93%E9%81%BA%E5%9B%91%E7%9A%84%E5%85%A7%E5%AE%B9%E6%9C%83%E4%BE%B5%E5%AE%B3%E5%88%B0%E8%87%AA%E5%B7%B1%E7%9A%84%E7%89%B9%E7%95%99%E5%88%86%EF%BC%8C%E4%B9%9F%E8%A6%81%E5%9C%A8%E7%B9%BC%E6%89%BF%E9%96%8B%E5%A7%8B%EF%BC%8C%E4%B9%9F%E5%B0%B1%E6%98%AF%E8%A2%AB%E7%B9%BC%E6%89%BF%E4%BA%BA%E6%AD%BB%E4%BA%A1%E6%99%82%E8%B5%B710%E5%B9%B4%E5%85%A7%E8%A1%8C%E4%BD%BF%E3%80%82%0A%0A%E5%BE%88%E5%A4%9A%E4%BA%BA%E7%9A%84%E6%89%93%E7%AE%97%E6%98%AF%E5%85%88%E8%AE%93%E9%95%B7%E8%BC%A9%E7%9A%84%E4%BA%8B%E6%83%85%E9%81%8E%E5%8E%BB%EF%BC%8C%E7%AD%89%E5%AE%B6%E8%A3%A1%E6%B0%A3%E6%B0%9B%E5%A5%BD%E4%B8%80%E9%BB%9E%E5%86%8D%E8%AB%87%E3%80%82%E7%AD%89%E5%88%B0%E7%B5%82%E6%96%BC%E8%AB%87%E5%BE%97%E4%B8%8B%E5%8E%BB%E7%9A%84%E9%82%A3%E4%B8%80%E5%A4%A9%EF%BC%8C%E6%99%82%E9%96%93%E5%B8%B8%E5%B8%B8%E5%B7%B2%E7%B6%93%E5%85%88%E7%AB%99%E5%88%B0%E5%B0%8D%E9%9D%A2%E9%82%A3%E4%B8%80%E9%82%8A%E4%BA%86%E3%80%82" target="_blank" rel="noopener">發到 Threads</a>
       <button class="btn ghost" onclick="copyPost(this, 5)">複製文字</button>
     </div>
   </article>
 <script>
-const POSTS = ["很多人在網路上搜「地檢署判決書查詢」，找了半天什麼都找不到。\n\n那是因為地檢署不會作判決。檢察官偵查完，作出來的是起訴、不起訴或緩起訴處分書；要等檢察官起訴、案件移到法院，才由法院判決認定被告有沒有罪。起訴是指控，判決是認定，兩件事查的地方不一樣。\n\n你收到傳票的那一刻，最想先弄清楚的是哪一件事？", "開完偵查庭之後就沒下文了，上網想查自己的起訴書，怎麼查都查不到。\n\n起訴書不是寫好就上網。原則上要等法院第一審裁判書公開之後，檢察署才會公開起訴書，所以案子還在審理中查不到，多半不是系統壞掉，是還沒輪到。另外涉及國家機密，或裁判書沒有公開的，也不會公開。查之前先把傳票上的案號找出來，那是查詢一定要填的東西。\n\n你是會自己查到底的人，還是直接打電話問的人？", "紙本起訴書不見了還有得查，開完偵查庭卻遲遲沒消息的，才是最難熬的。\n\n因為偵查不公開，不起訴和緩起訴處分書並沒有公開查詢系統，想知道檢察官的偵查結果，只能等處分書寄來。時間差得很大，有的案子從開庭到收到只花3星期，也有從提出告訴狀到收到已經超過1年半。\n\n等消息的那段時間，你都是怎麼過的？", "宣判當天下午，當事人打電話問書記官判決主文，響了很久都沒人接。他以為自己被躲了。\n\n不是。法院定上午宣判，書記官可能整個上午都在開庭，根本不在座位上，要下午再打打看。股別和分機就印在開庭通知書上。書記官講的也只是大略勝敗，詳細金額還是要看系統。主文公告查詢系統通常也要下午或隔天才更新。\n\n等判決的那天，你會一直重整網頁，還是直接打電話？", "有人拿著一個名字來問我，說在裁判書系統查到刑事判決，這個人是不是有前科。\n\n不一定。公開的判決書只會有當事人姓名，不會有身分證字號和住址，所以也沒辦法用身分證字號去反查一個人過去的案件。同名同姓的情形本來就可能存在。而且查得到刑事判決，不代表有罪判決已經確定，還要看有沒有走到最終審級。\n\n如果要確認一個人的背景，你會查到什麼程度才停手？", "當事人傳訊息給我，說案子明明已經宣判了，裁判書系統卻怎麼查都查不到。他問是不是系統壞了。\n\n系統沒壞。判決書通常要到宣判日10至14天後，才在裁判書系統查得到。案號裡有簡字或小字的案件，還要先點簡易案件查詢，直接搜是搜不出來的。少年保護事件、妨害性自主案件的裁判書，則是法律規定就不會公開。\n\n你查自己案子的時候，卡最久的是哪一關？"];
+const POSTS = ["同樣是家裡長輩失智，有人被裁定輔助宣告，有人被裁定監護宣告。差別不在家屬希望管到多緊，在當事人的心智受損到什麼程度。\n\n程度比較輕微的，法院會裁定輔助宣告，這個人在法律上是限制行為能力人，類似7至18歲，借錢、打官司這些事，要經過輔助人同意才有效。程度嚴重到沒辦法理解別人的意思，也沒辦法表達自己意見的，才是監護宣告，法律上類似未滿7歲，自己簽的契約全部無效。\n\n常見的情況是長輩失智之後，家人發現他開始跟別人借錢，或是要把房地產過戶出去，才想到要聲請。但要走哪一種，是法院依鑑定結果認定的，不是家屬挑一個自己比較安心的。這類案子要經過醫生鑑定，當事人也可能提起抗告，每一件時間都不一樣，通常幾個月內會結束。\n\n真正難的往往不是選哪一種，是承認那個從小把你養大的人，現在連自己借了多少錢，都講不清楚了。", "監護人不一定要是家人。趁自己神智還清楚的時候，就可以先指定將來由誰來擔任，這叫意定監護。\n\n為什麼要先選？因為監護人的權限很大，受監護宣告之後，本人的行為包括處分財產，都要由監護人代為才有效。常見的情況是家人失智以後，其他親屬才臨時討論由誰擔任，那個時候本人已經沒辦法表達自己的意見了。萬一選到不適格又不盡責的人，財產可能被處理不當，損及的還是受監護人自己的權利。\n\n人選的條件其實很寬，只要是成年人，而且自己沒有受監護、輔助或破產宣告就可以，不限於家人，信任多年的好友、律師、醫生這些專業人士都能擔任。但很多人卡在最後一步，契約簽好還要辦公證，由公證人做成公證書，這份意定監護契約才算成立，而且要等到本人真的受監護宣告的那一天，才發生效力。\n\n會提前簽意定監護的人，多半不是不信任家人。是他太清楚，等到自己說不出話的那一天，錢會讓最親近的人變成什麼樣子。", "受監護宣告之後，本人走進銀行想領自己的錢，領不出來。帳戶會交由監護人管理，要領錢，得由監護人代為。\n\n常見的情況是家人患有失智症，其他家屬怕他誤入詐騙陷阱，財產被騙走，甚至把房地產過戶給別人，才考慮聲請監護宣告。監護宣告最大的好處，就是監護人依法可以監督、管理受監護人的財產，避免因為受騙而輕易交付給別人，或是做出對自己不利益的處分。\n\n代價是生活裡的大小事跟著一起被關起來。受監護宣告的人成為無行為能力人，法律上類似未滿7歲，買東西、借錢，只要是本人單獨去做的，法律上都是無效。連繼承也一樣，繼承權本身不受影響，但要協議分割遺產，或是走分割遺產的訴訟，都要由監護人代為處理。\n\n所以家屬最常卡住的，不是要不要聲請，是那個人明明還會自己走去菜市場買菜，回家卻已經分不清楚剛剛在電話裡跟他要錢的是誰。", "沒有小孩的人過世，配偶不會自動一個人拿走全部遺產。這件事很多人是到了真的要辦繼承時才知道。\n\n依民法第1138條，配偶是當然繼承人。但當然繼承人的意思是配偶一定有份，不是配偶獨得。沒有子女的時候，配偶要跟第二順位的繼承人一起按比例繼承；如果父母也已經過世，就再往下，配偶跟第三順位的人一起分。順位是一層一層遞補的，不會因為有配偶就停在第一層。\n\n反過來，如果有子女，遺產就由子女繼承。未婚又沒有子女的人，才輪到第二順位；父母也不在了，換第三順位，以此類推。所以同樣一句沒有小孩，在不同家庭裡的答案完全不一樣，關鍵是上面還有誰在。\n\n真正會吵起來的，多半從房子開始。家裡有好幾棟不動產的時候，誰拿哪一棟、能不能指定給配偶，往往在繼承人是誰都還沒確定之前就先吵開了。而最少人想過的一種結局是，如果最後無人繼承，遺產會歸屬國庫。", "遺囑寫得再清楚，也不代表你可以把遺產全部留給其中一個人。很多人以為只要遺囑寫下去，家裡的東西就照著自己的意思走。\n\n民法第1187條的原文是這樣寫的：遺囑人於不違反關於特留分規定之範圍內，得以遺囑自由處分遺產。很多人只看見自由處分四個字，重點其實在前面那一句。自由是有條件的，條件就是不能違反特留分。\n\n換句話說，法律先幫每個繼承人留下一塊不能被遺囑拿走的部分，剩下的才是立遺囑的人可以自己安排的。應繼分是本來可以分到多少，特留分是最低限度保得住多少，兩個數字不一樣，卻常常被混在一起講。以600萬元的遺產去算，差別馬上就看得出來。\n\n家裡有好幾棟房子的時候最容易出事。想把其中一棟留給配偶，是很自然的念頭，但這個念頭能不能成立，不是看感情，是看它有沒有壓到別人的特留分。真正讓遺囑失效的，通常不是寫得不夠清楚，是分得太乾脆。", "發現遺囑把自己那一份幾乎砍光，不是只能認了。法律其實留了一條路，只是那條路有時效。\n\n被侵害特留分的繼承人，可以類推適用民法第1225條，向其他有領得遺產的繼承人行使扣減權。也就是說，要處理的對象不是寫遺囑的那個人，而是實際領到遺產的那些人。這件事在家裡通常特別難開口，因為坐在對面的，是同一個家裡的人。而且很多人是在遺產都已經分完之後，才知道自己那一份被少算了。\n\n但真正會出事的不是難不難開口，是時間。這一點沒有人會提醒你。扣減權有期間限制，類推適用民法第1146條第2項，要在知悉被侵害的2年內行使。就算完全不知道遺囑的內容會侵害到自己的特留分，也要在繼承開始，也就是被繼承人死亡時起10年內行使。\n\n很多人的打算是先讓長輩的事情過去，等家裡氣氛好一點再談。等到終於談得下去的那一天，時間常常已經先站到對面那一邊了。"];
 function copyPost(btn, i) {
   navigator.clipboard.writeText(POSTS[i]).then(() => {
     const o = btn.textContent; btn.textContent = "已複製";
